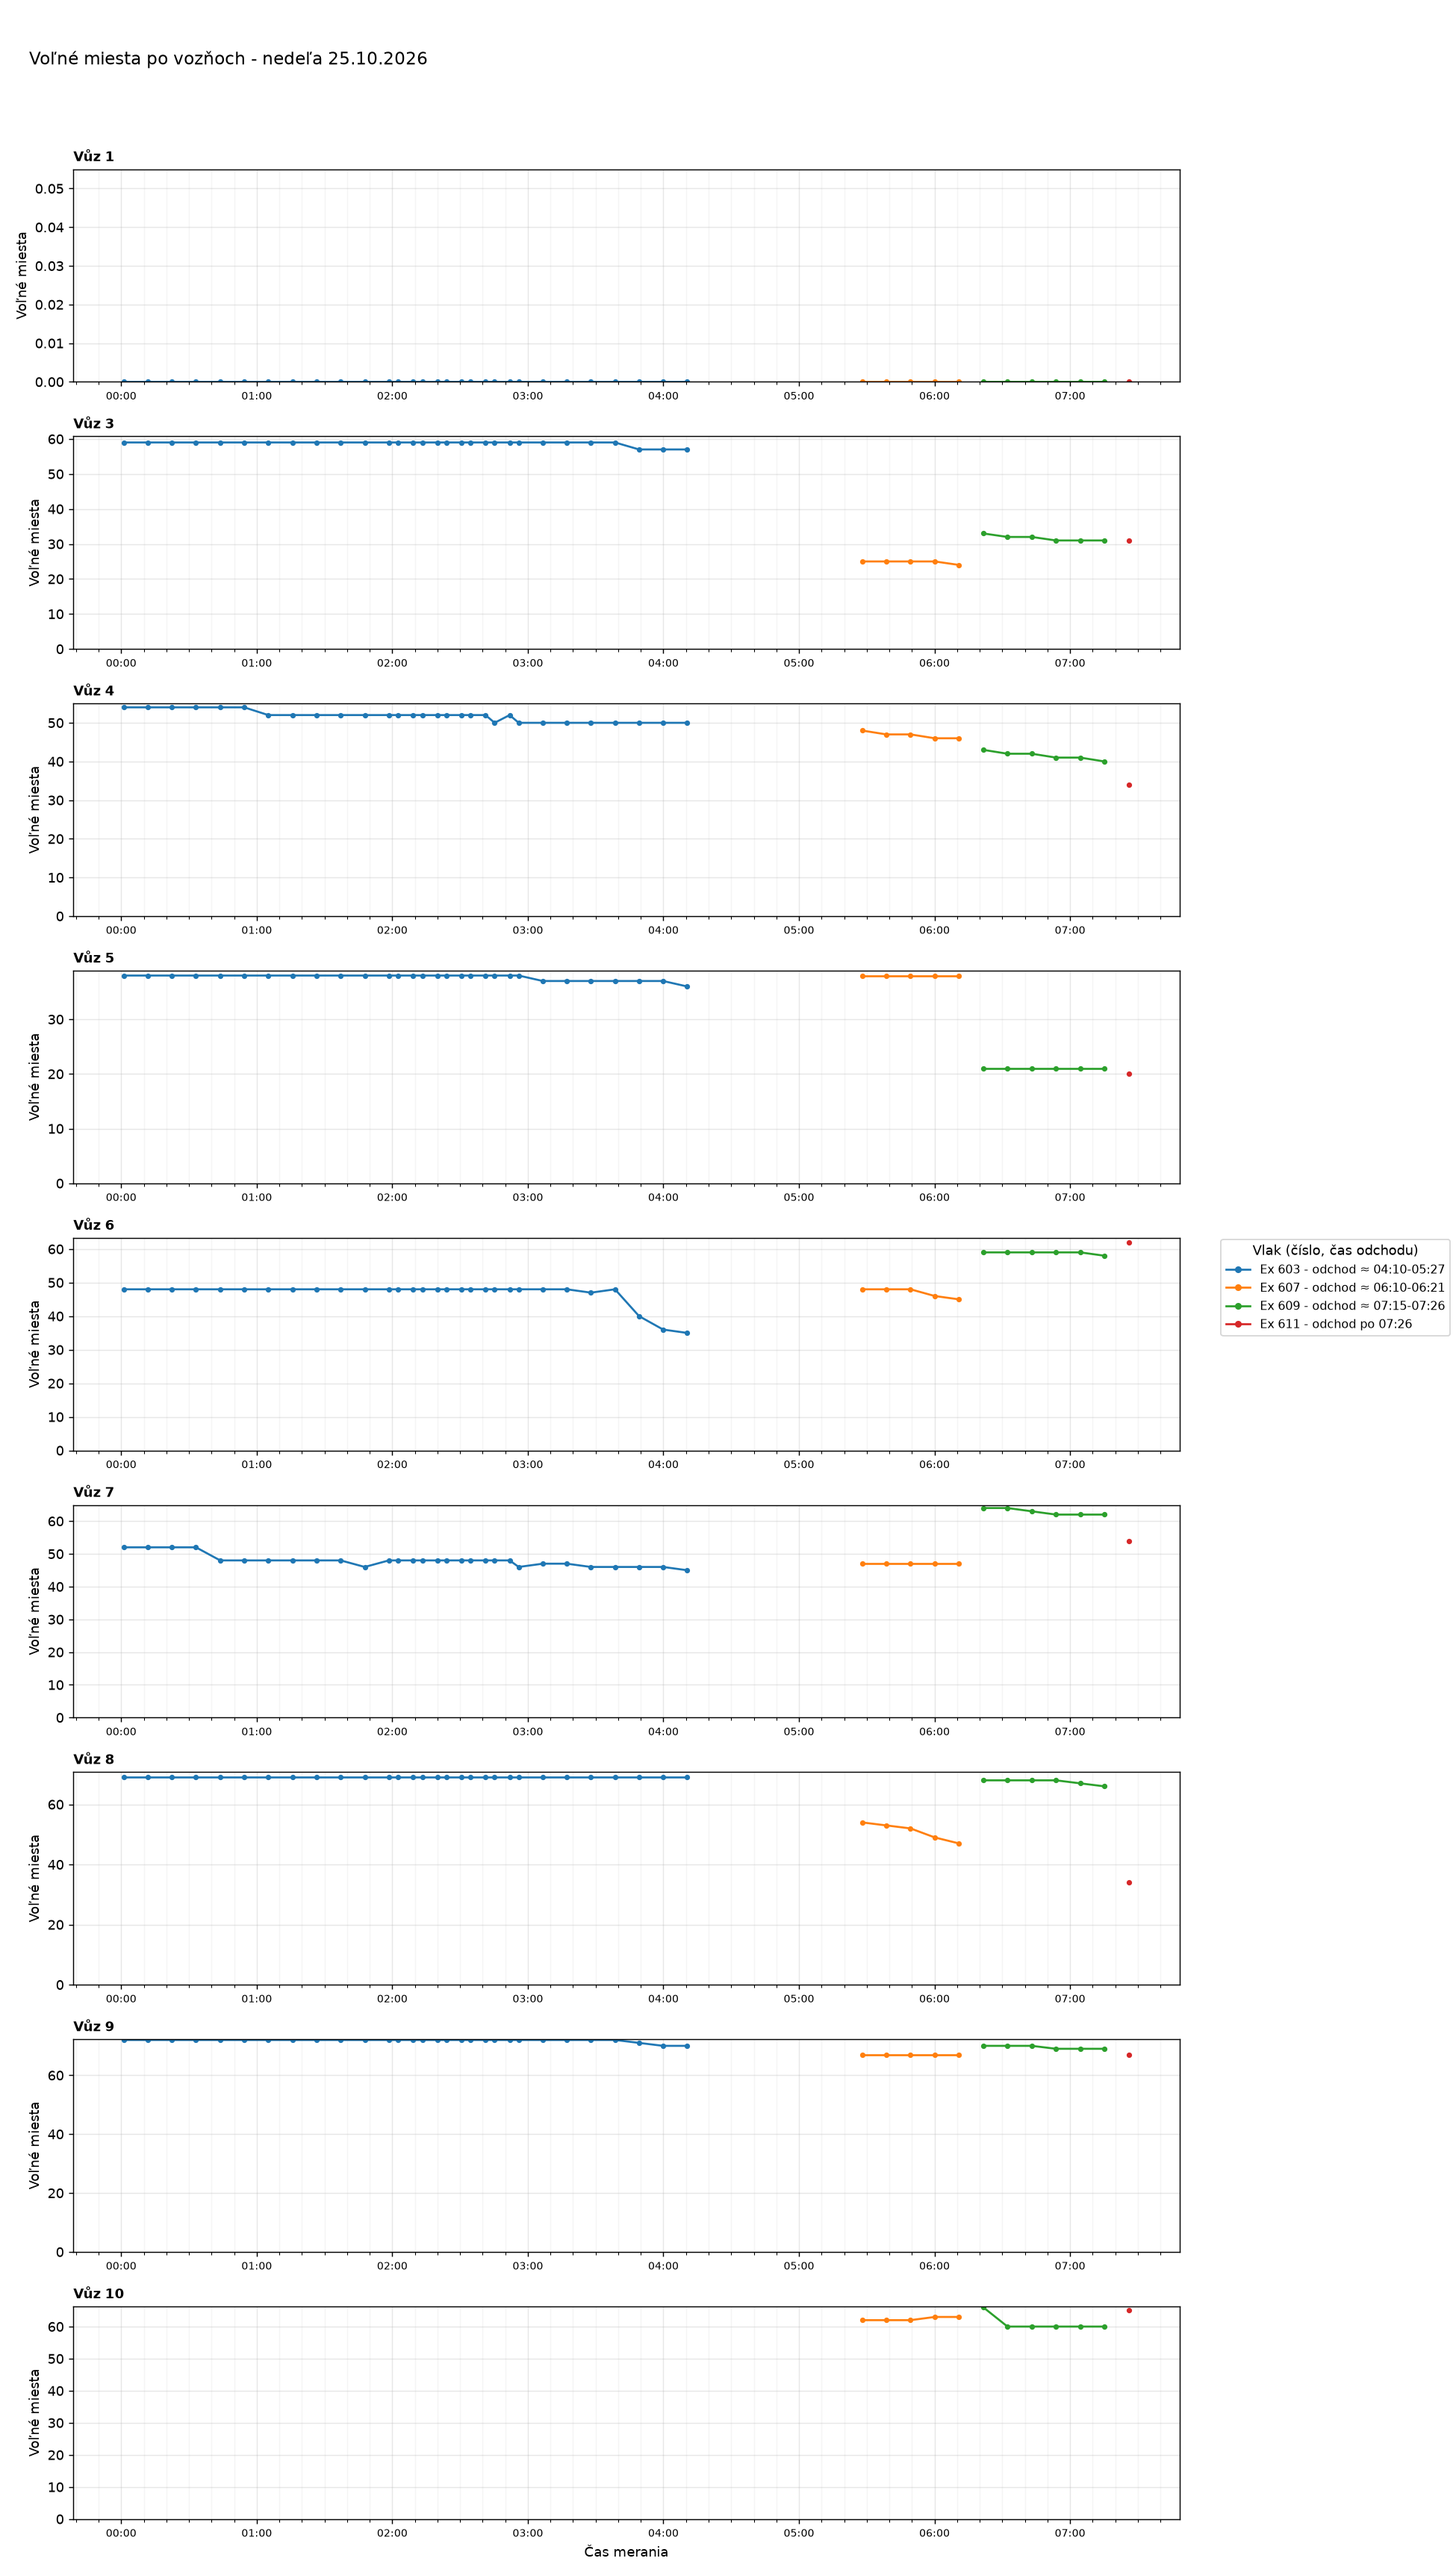
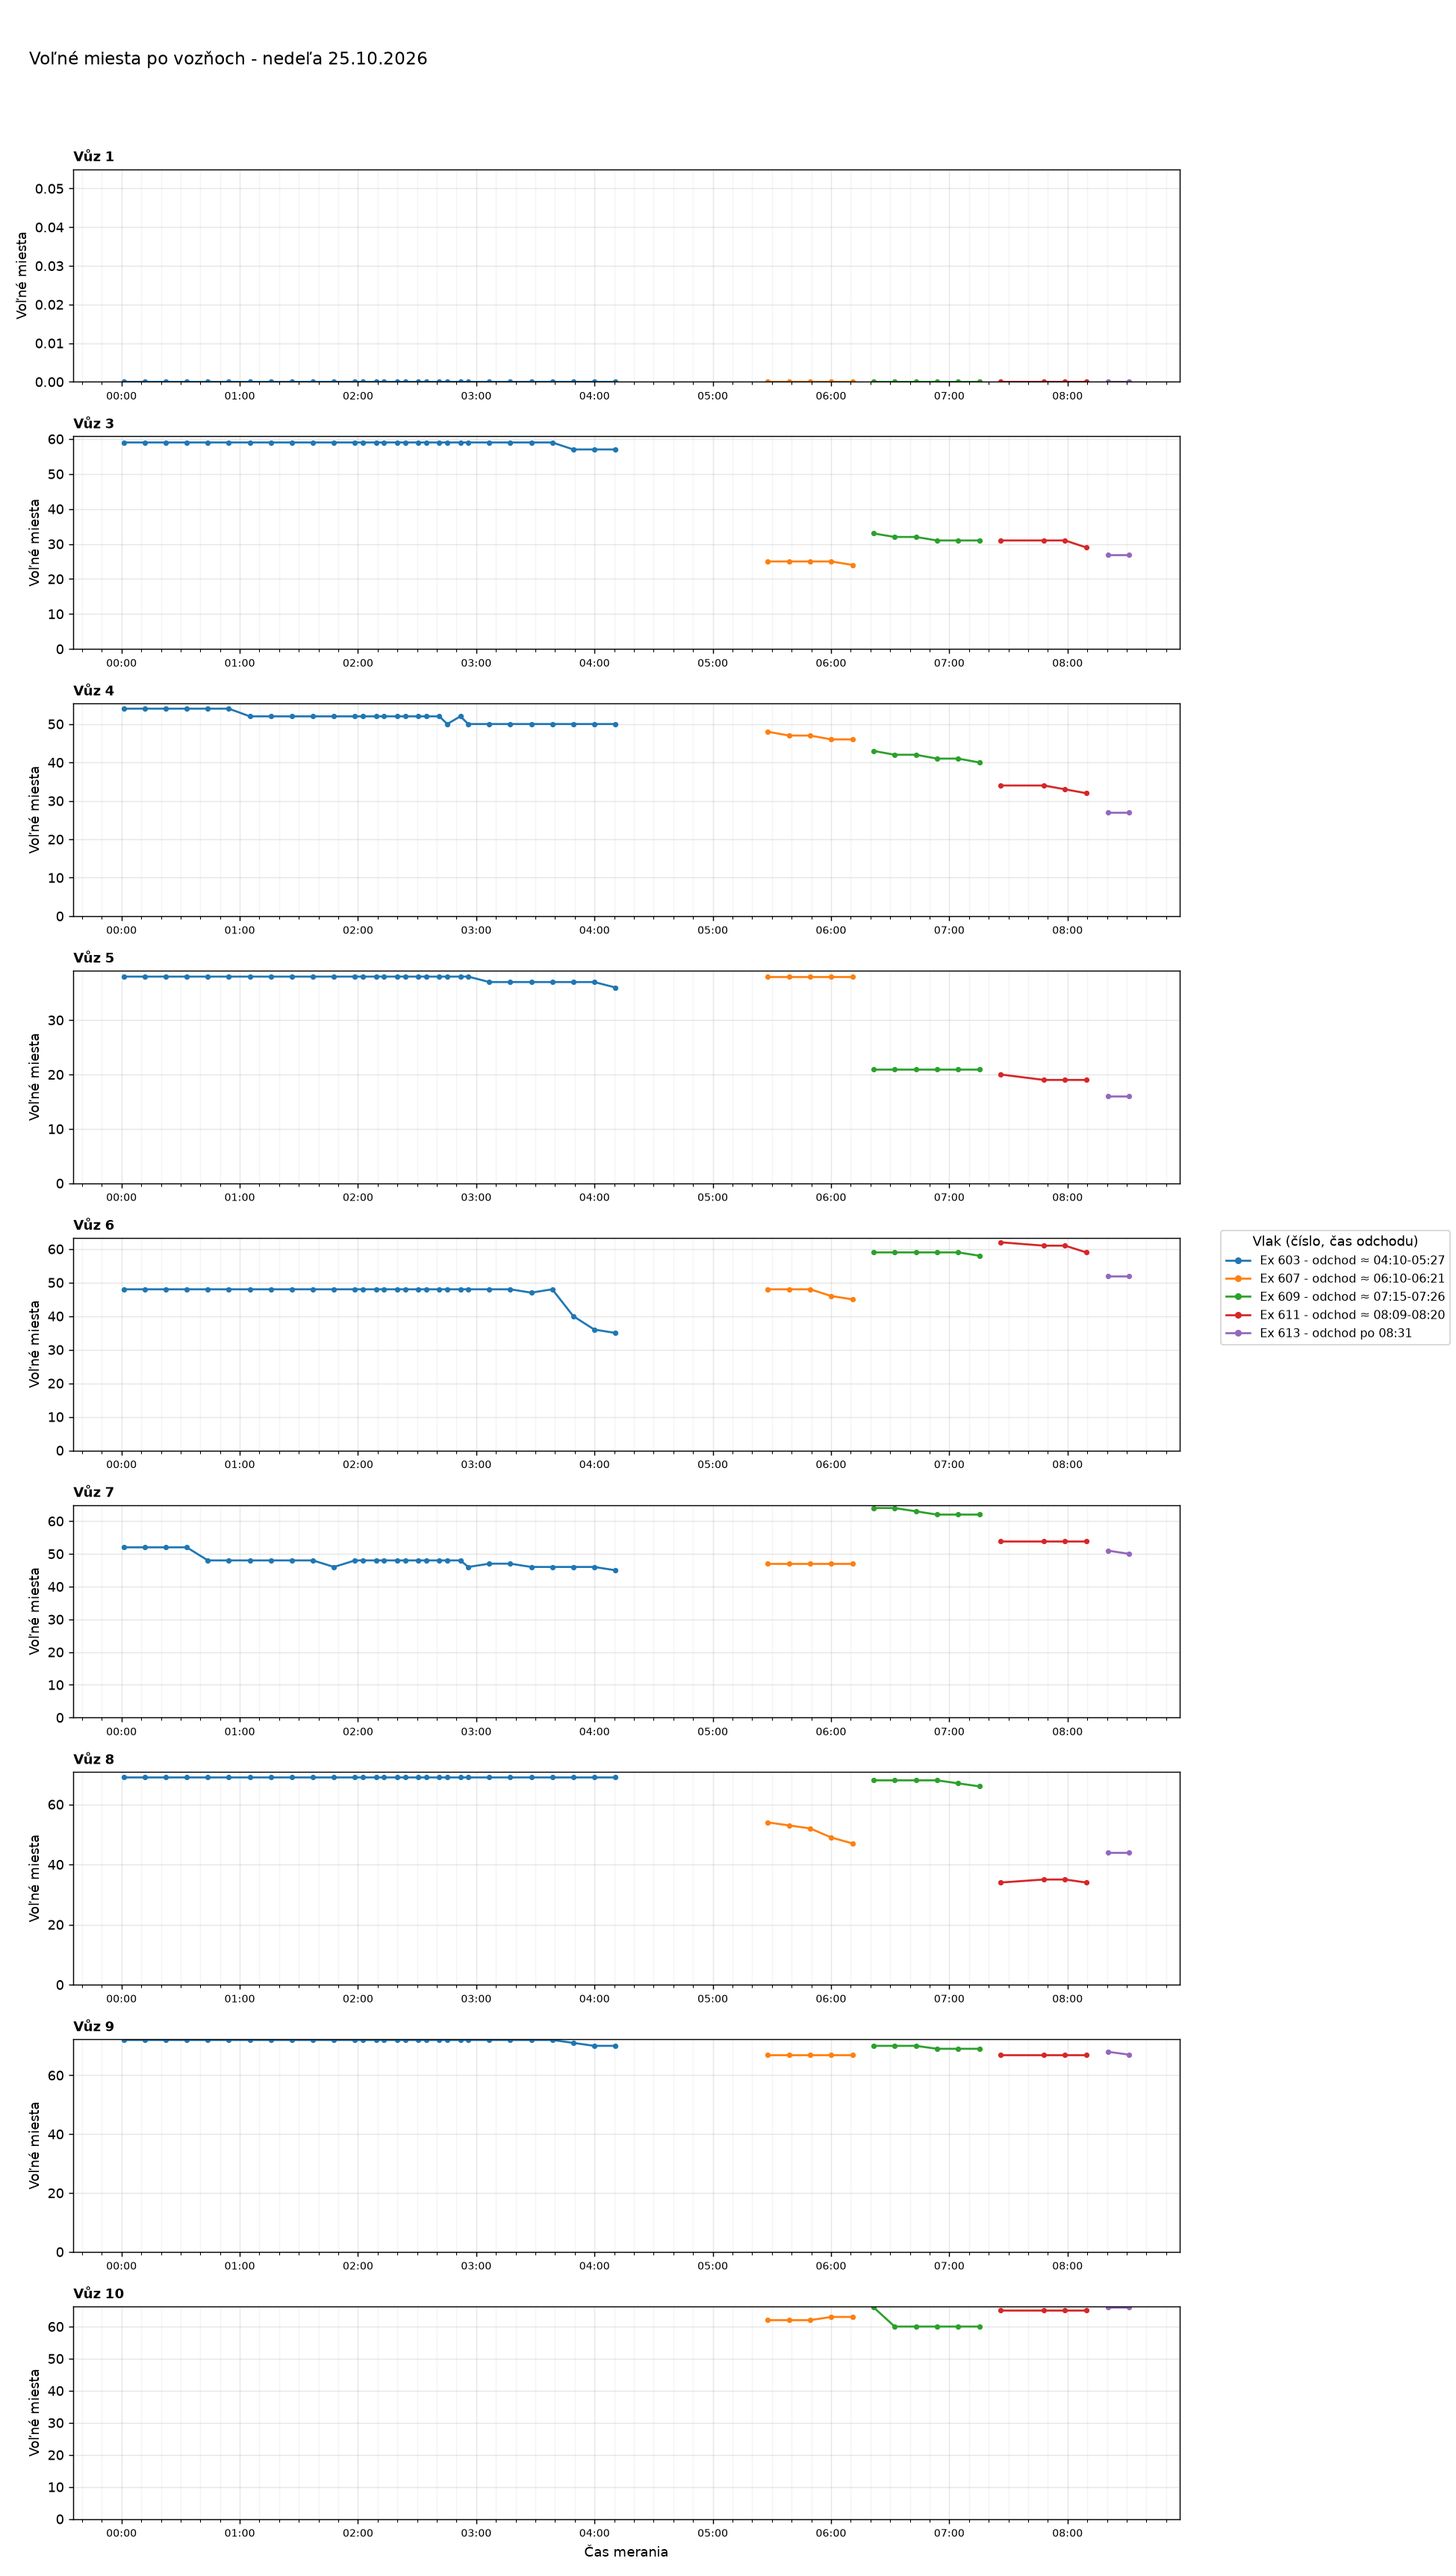
Aktualizácia grafov 2026-10-25 08:38

Changed region(s): [[0.8308, 0.4652, 1.0, 0.5272], [0.1538, 0.2481, 0.1846, 0.2791]]

diff --git a/index.html b/index.html
@@ -35,7 +35,7 @@ h2.oddiel{margin:36px 0 0;font-size:1.4rem}
 <body>
 <main>
 <h1>Voľné miesta vo vlakoch</h1>
-<p class="muted">Posledné meranie: 25.10.2026 07:26 ·
+<p class="muted">Posledné meranie: 25.10.2026 08:31 ·
 <a href="data/obsadenost_data.csv">stiahnuť dáta (CSV)</a></p>
 <nav class="nav"><a href="#suhrn">Súhrn</a><a href="#statistiky">Štatistiky</a><a href="#historia">História grafov</a></nav>
 
@@ -44,7 +44,7 @@ h2.oddiel{margin:36px 0 0;font-size:1.4rem}
 <div class="tablewrap"><table>
 <thead><tr><th>Deň</th><th>Meraní</th><th>Vlakov</th><th>Čas meraní</th></tr></thead>
 <tbody>
-<tr><td><a href="#d2026-10-25">nedeľa 25.10.2026</a></td><td>42</td><td>4</td><td>00:01-07:26</td></tr>
+<tr><td><a href="#d2026-10-25">nedeľa 25.10.2026</a></td><td>47</td><td>5</td><td>00:01-08:31</td></tr>
 <tr><td><a href="#d2026-10-24">sobota 24.10.2026</a></td><td>98</td><td>14</td><td>00:10-23:50</td></tr>
 <tr><td><a href="#d2026-10-23">piatok 23.10.2026</a></td><td>64</td><td>13</td><td>07:25-23:49</td></tr>
 <tr><td><a href="#d2026-10-22">štvrtok 22.10.2026</a></td><td>80</td><td>11</td><td>00:08-16:10</td></tr>
